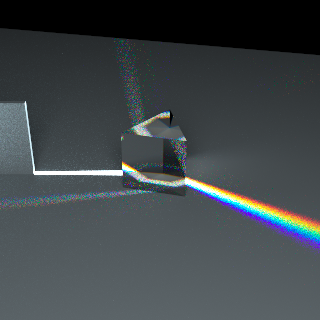
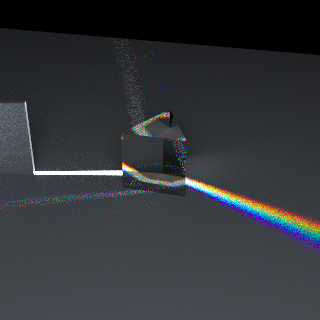
eod

Changed region(s): [[0.0, 0.125, 1.0, 1.0], [0.875, 0.25, 0.9062, 0.2812]]

diff --git a/src/material.cc b/src/material.cc
@@ -287,15 +287,23 @@ DispersiveGlassMaterial::DispersiveGlassMaterial(const CauchyCoeff &cauchy_coeff
 
 void DispersiveGlassMaterial::sample_ray(Path &path, int pind, Rng &rng0, Rng &rng1) const
 {
+	bool set_monochromatic;
 	int cindex;
 
 	if (path.I.is_monochromatic) {
 		cindex = path.I.cindex;
+		set_monochromatic = false;
 	} else {
 		cindex = path.I.make_monochromatic(rng1.next());
+		set_monochromatic = true;
 	}
 
 	glass_sample_ray(ior_table[cindex], path, pind, rng0);
+
+	// if sampled reflection, we can undo the monochromatic set from here
+	if (set_monochromatic && path.rays[pind].ior == path.rays[pind-1].ior) {
+		path.I.is_monochromatic = false;
+	}
 }
 
 void DispersiveGlassMaterial::transfer(Path &path, int pind) const

diff --git a/src/color.cc b/src/color.cc
@@ -57,7 +57,7 @@ static void make_rgb_table(float *wavelengths, float *r_table, float *g_table, f
 	for (int k = 0; k < NWAVELEN; k++) {
 		float l = wavelengths[k];
 		r_table[k] = 1.00f * color_piecewise_gauss(l, 677, 50, 50);
-		g_table[k] = 0.70f * color_piecewise_gauss(l, 532, 50, 50);
+		g_table[k] = 0.66f * color_piecewise_gauss(l, 532, 50, 50);
 		b_table[k] = 0.67f * color_piecewise_gauss(l, 437, 50, 50);
 	}
 }

diff --git a/src/srgb_img.cc b/src/srgb_img.cc
@@ -12,7 +12,7 @@
 #include "color.h"
 
 #define RAW_LO_PERCENTILE_CUTOFF 0.02
-#define RAW_HI_PERCENTILE_CUTOFF 0.99
+#define RAW_HI_PERCENTILE_CUTOFF 0.995
 
 static float clip(float x, float low, float high)
 {
